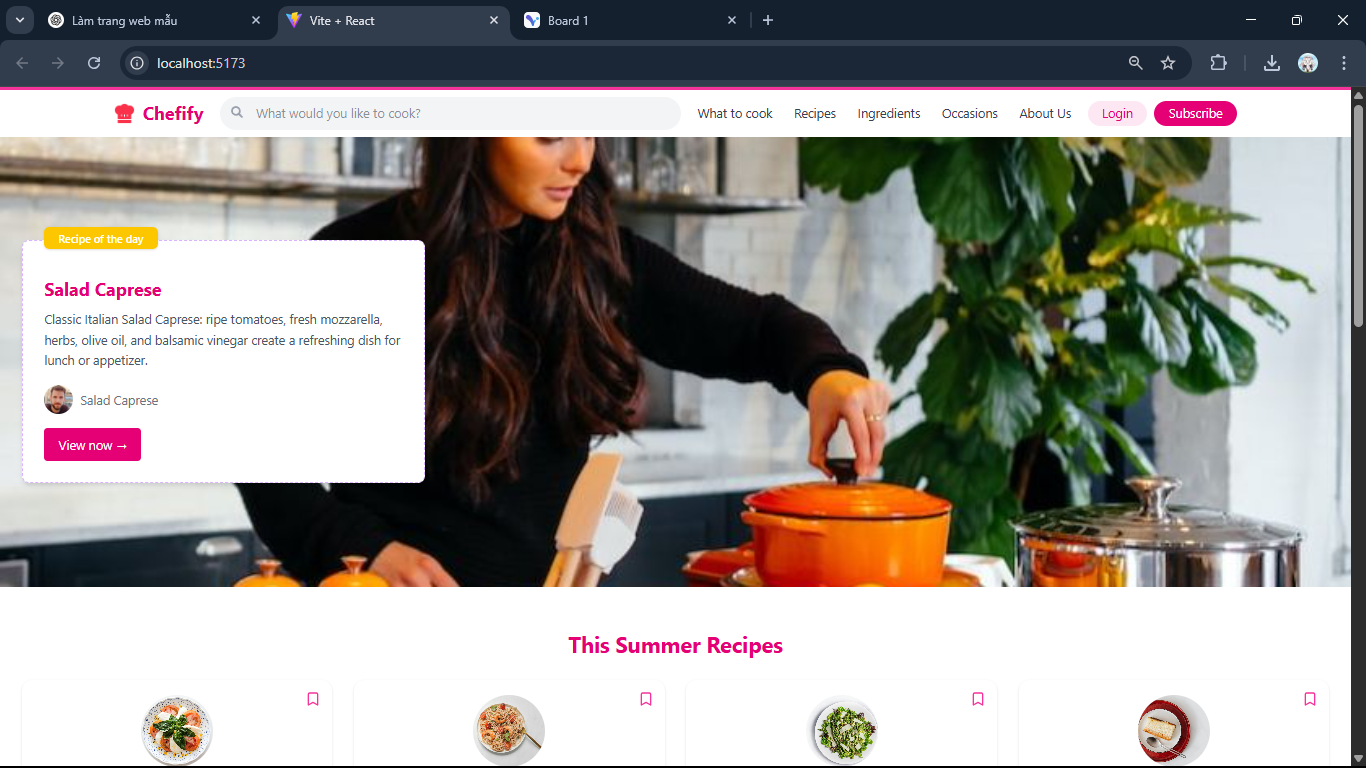
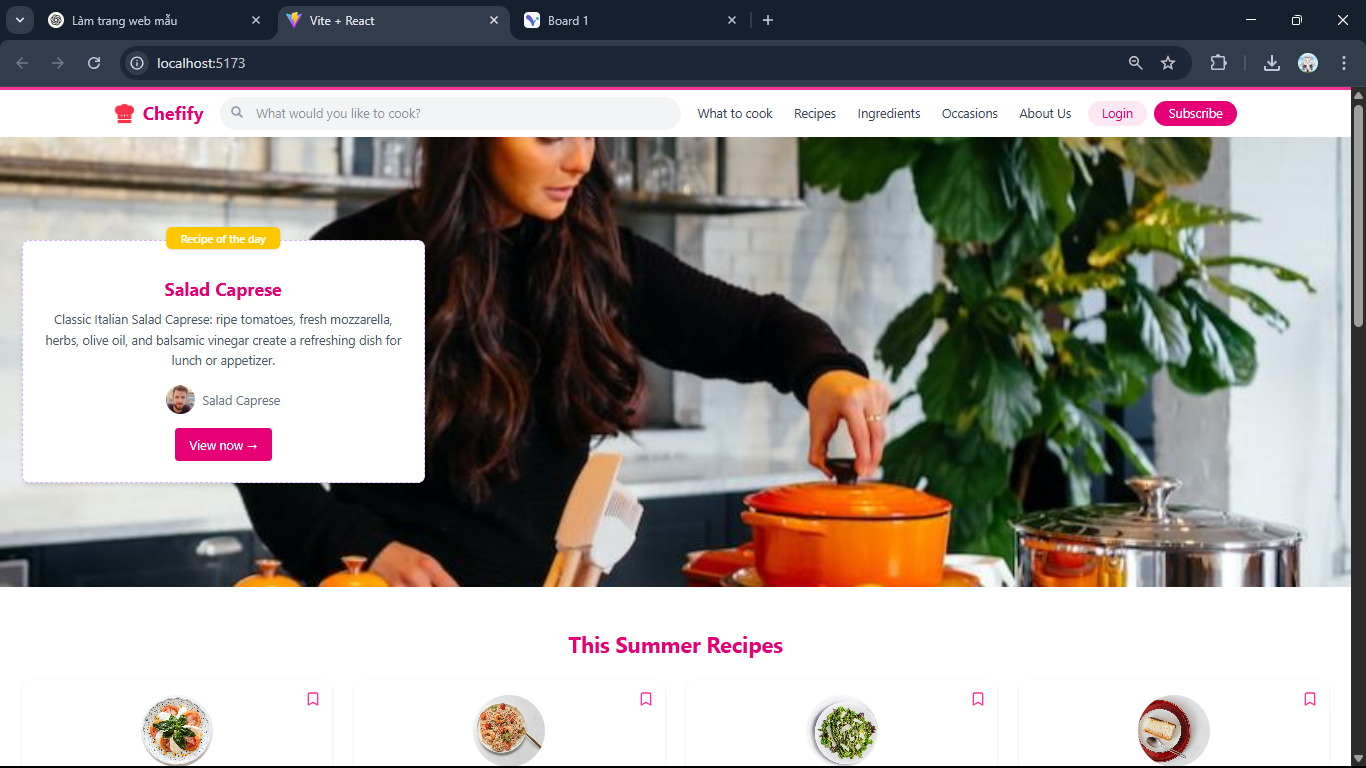
Bai 2_final

Changed region(s): [[0.0307, 0.375, 0.3075, 0.625], [0.0307, 0.2812, 0.2152, 0.3438]]

diff --git a/ReactAi/src/components_2/Banner.jsx b/ReactAi/src/components_2/Banner.jsx
@@ -16,22 +16,24 @@ export default function Banner() {
             <div className="relative z-10 flex items-center justify-start h-full px-6">
                 <div className="relative bg-white p-6 pt-10 rounded-lg shadow-md border-2 border-dashed border-purple-300 max-w-md w-full text-left">
                     {/* Badge - Recipe of the day */}
-                    <div className="absolute -top-4 left-6">
+                    <div className="absolute -top-4 left-1/2 transform -translate-x-1/2">
                         <span className="bg-yellow-400 text-white text-xs font-medium px-4 py-1 rounded-md shadow">
                             Recipe of the day
                         </span>
                     </div>
 
                     {/* Title */}
-                    <h2 className="text-xl font-bold text-pink-600 mb-2">Salad Caprese</h2>
+                    <h2 className="text-xl font-bold text-pink-600 mb-2 text-center">
+                        Salad Caprese
+                    </h2>
 
                     {/* Description */}
-                    <p className="text-gray-600 mb-4 text-sm leading-relaxed">
+                    <p className="text-gray-600 mb-4 text-sm leading-relaxed text-center">
                         Classic Italian Salad Caprese: ripe tomatoes, fresh mozzarella, herbs, olive oil, and balsamic vinegar create a refreshing dish for lunch or appetizer.
                     </p>
 
-                    {/* Chef name */}
-                    <div className="flex items-center justify-start gap-2 text-sm text-gray-500 mb-4">
+                    {/* Chef info */}
+                    <div className="flex items-center justify-center gap-2 text-sm text-gray-500 mb-4">
                         <img
                             src="https://randomuser.me/api/portraits/men/32.jpg"
                             alt="Chef"
@@ -41,9 +43,11 @@ export default function Banner() {
                     </div>
 
                     {/* Button */}
-                    <button className="bg-pink-600 text-white px-4 py-2 rounded hover:bg-pink-700 transition text-sm">
-                        View now →
-                    </button>
+                    <div className="flex justify-center">
+                        <button className="bg-pink-600 text-white px-4 py-2 rounded hover:bg-pink-700 transition text-sm">
+                            View now →
+                        </button>
+                    </div>
                 </div>
             </div>
         </section>
